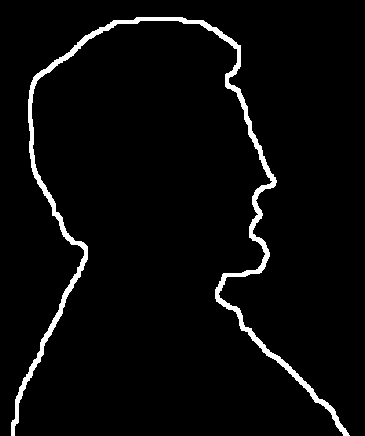
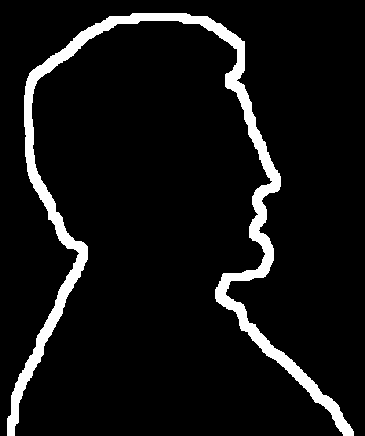
use morphology

diff --git a/hw2/main.py b/hw2/main.py
@@ -1,42 +1,30 @@
 import cv2
 import numpy as np
 
-def get_rid_of_black_spot(show: bool = False) -> np.ndarray:
-    circle_gray = cv2.imread('pic/circle.png', cv2.COLOR_BGR2GRAY)
+# -----circle-----
 
-    ret, circle_bin = cv2.threshold(circle_gray, 127, 255, cv2.THRESH_BINARY)
-    circle_dilate = cv2.dilate(circle_bin, np.ones((5, 6)), iterations=5)
-    circle_erode = cv2.erode(circle_dilate, np.ones((5, 6)), iterations=5)
+circle_gray = cv2.imread('pic/circle.png', cv2.COLOR_BGR2GRAY)
+cv2.imwrite('pic/circle_gray.png', circle_gray)
 
-    if show:
-        cv2.imwrite('pic/circle_gray.png', circle_gray)
-        cv2.imwrite('pic/circle_bin.png', circle_bin)
-        cv2.imwrite('pic/circle_dilate.png', circle_dilate)
+# image only in black and white
+ret, circle_bin = cv2.threshold(circle_gray, 127, 255, cv2.THRESH_BINARY)
+cv2.imwrite('pic/circle_bin.png', circle_bin)
 
-    return circle_erode
+# using close operation to get rid of small black spot.
+# same as dilate first, and than erode
+circle_unspot = cv2.morphologyEx(circle_bin, cv2.MORPH_CLOSE, np.ones((5, 6)), iterations=5)
+cv2.imwrite('pic/circle_unspot.png', circle_unspot)
 
+# -----man-----
 
-def get_border_line(show: bool = False) -> np.ndarray:
-    man_gray = cv2.imread('pic/man.png', cv2.COLOR_BGR2GRAY)
+man_gray = cv2.imread('pic/man.png', cv2.COLOR_BGR2GRAY)
+cv2.imwrite('pic/man_gray.png', man_gray)
 
-    ret, man_bin = cv2.threshold(man_gray, 127, 255, cv2.THRESH_BINARY)
-    man_erode = cv2.erode(man_bin, np.ones((3, 3)), iterations=4)
+# image only in black and white
+ret, man_bin = cv2.threshold(man_gray, 127, 255, cv2.THRESH_BINARY)
+cv2.imwrite('pic/man_bin.png', man_bin)
 
-    if show:
-        cv2.imwrite('pic/man_gray.png', man_gray)
-        cv2.imwrite('pic/man_bin.png', man_bin)
-        cv2.imwrite('pic/man_erode.png', man_erode)
-
-    return man_bin - man_erode
-
-
-def main() -> None:
-    circle_erode = get_rid_of_black_spot(show=True)
-    cv2.imwrite('pic/circle_erode.png', circle_erode)
-
-    man_border = get_border_line(show=True)
-    cv2.imwrite('pic/man_border.png', man_border)
-
-
-if __name__ == '__main__':
-    main()
+# using gradient to get the contour line.
+# same as dilate - erode
+man_border = cv2.morphologyEx(man_bin, cv2.MORPH_GRADIENT, np.ones((3, 3)), iterations=4)
+cv2.imwrite('pic/man_border.png', man_border)
